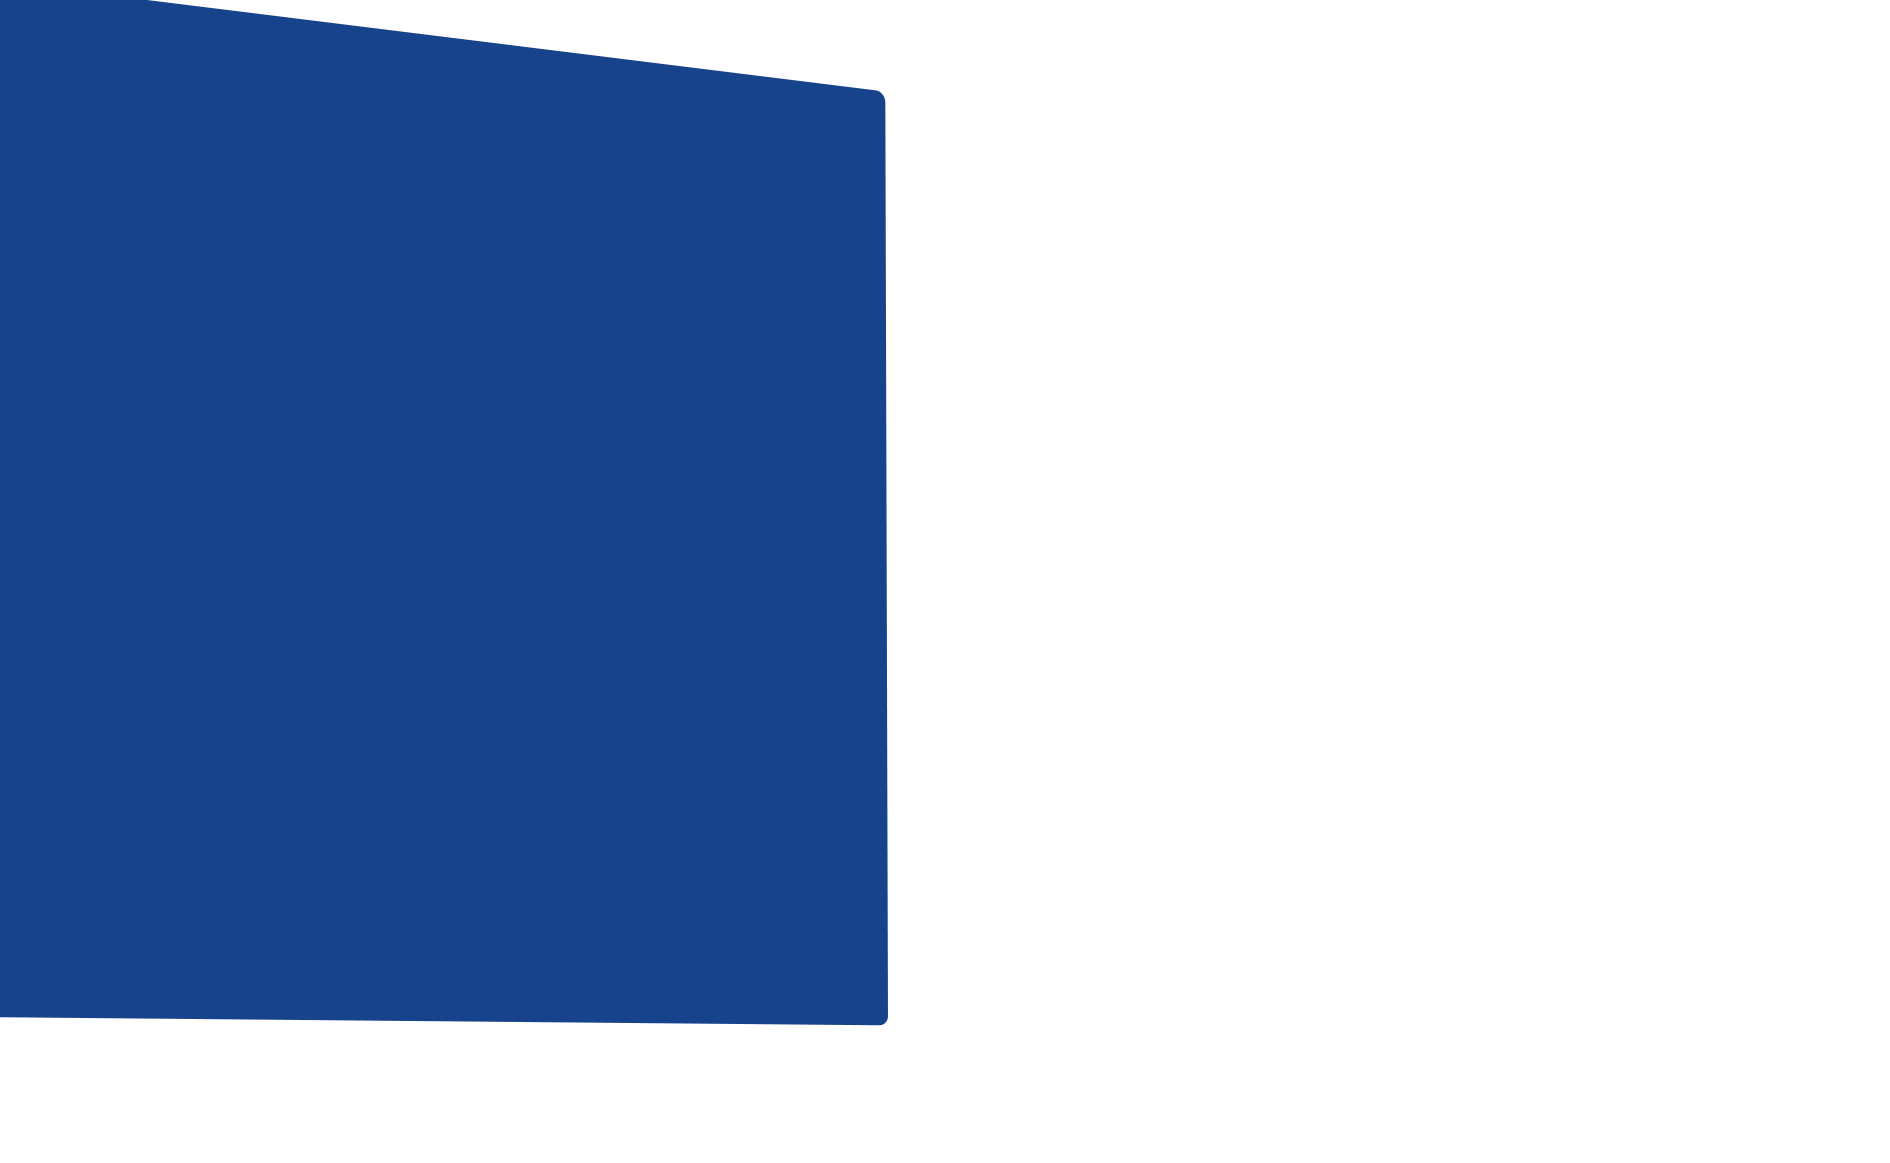
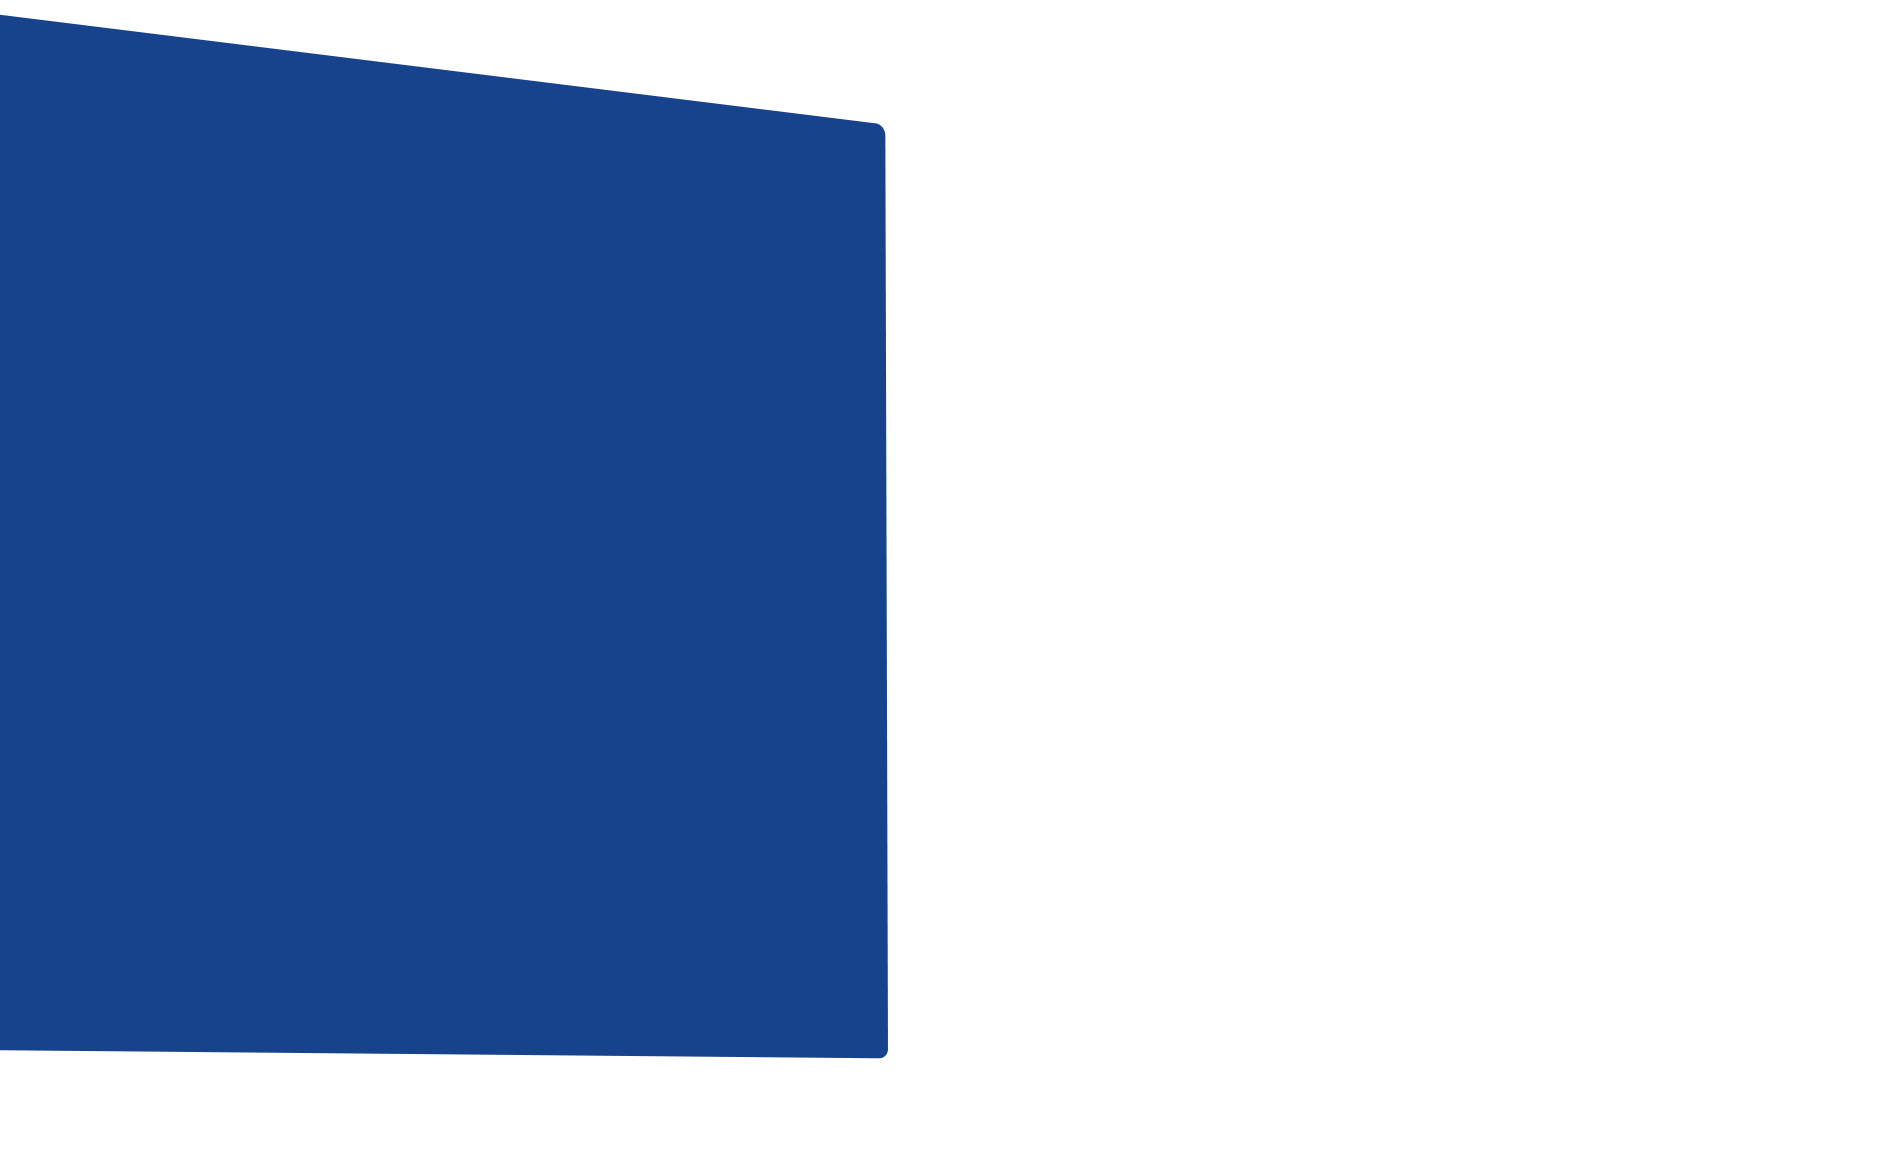
UI changes

Changed region(s): [[0.0, 0.8667, 0.4683, 0.9286], [0.0, 0.0, 0.4683, 0.1238]]

diff --git a/src/components/LandingImage.jsx b/src/components/LandingImage.jsx
@@ -59,7 +59,7 @@ const FixedImage = () => {
         position: "relative",
         width: "100%",
       }}
-      className="w-full h-[70vh] md:h-[80vh] bg-cover bg-no-repeat flex items-center justify-center p-4"
+      className="w-full h-[60vh] md:h-[80vh] bg-cover bg-no-repeat flex items-center justify-center p-4"
     >
       <animated.div
         style={{
@@ -105,7 +105,6 @@ const FixedImage = () => {
           style={{
             padding: "20px",
             backgroundSize: `300% 300%`,
-            border: "2px solid white",
             display: "flex",
             flexDirection: "column",
             alignItems: "center",
@@ -117,8 +116,9 @@ const FixedImage = () => {
             position: "relative", // Ensure all elements are stacked on top of each other
             zIndex: 1, // Ensure content is above the background images
           }}
+          className="border-none md:border-[1px] border-background"
         >
-          <h1 className="font-extrabold text-accent text-3xl text-center">
+          <h1 className="font-extrabold text-accent text-xl md:text-3xl text-center">
             We Supply{" "}
             <span className="text-secondary font-serif">Quality </span>and{" "}
             <span className=" font-serif">Reliable </span>
@@ -128,9 +128,9 @@ const FixedImage = () => {
             suppliers and fabricators of all aluminum systems.
           </p>
           <div className="flex items-center justify-center gap-4">
-            <div className="p-[6px] text-background border-[1px] hover:bg-primary hover:text-background  transition border-background rounded-md text-[.8rem]">
+            {/* <div className="p-[6px] text-background border-[1px] hover:bg-primary hover:text-background  transition border-background rounded-md text-[.8rem]">
               See what we do
-            </div>
+            </div> */}
             <div className="p-[6px] text-background hover:bg-primary hover:text-background  transition border-[1px] border-background rounded-md text-[.8rem]">
               View our portfolio here
             </div>

diff --git a/src/components/ContactForm.jsx b/src/components/ContactForm.jsx
@@ -3,12 +3,12 @@ import { motion } from "framer-motion";
 export default function Contact() {
   return (
     <div className="  my-40">
-      <h2 className="text-2xl font-bold text-center text-secondary mb-4">
+      <h2 className="text-xl font-bold text-center text-secondary mb-4">
         Reach out to us for any queries
       </h2>
       <div className="flex gap-4 flex-col md:flex-row justify-center items-center bg-gray-100 p-4 w-full ">
         <motion.div
-          className="bg-primary text-background   p-8 rounded-lg shadow-lg w-full md:w-1/2 lg:w-1/3 m-2"
+          className="bg-primary text-background   p-8  shadow-lg w-full md:w-1/2 lg:w-1/3 m-2"
           initial={{ x: "100vw" }}
           animate={{ x: 0 }}
           transition={{ type: "spring", stiffness: 50, delay: 0.3 }}
@@ -31,12 +31,12 @@ export default function Contact() {
         </button> */}
         </motion.div>
         <motion.div
-          className=" p-8 rounded-lg shadow-lg w-full md:w-1/2 lg:w-1/2 m-2"
+          className=" p-8  shadow-lg shadow-primary w-full md:w-1/2 lg:w-1/2 m-2"
           initial={{ x: "-100vw" }}
           animate={{ x: 0 }}
           transition={{ type: "spring", stiffness: 50, delay: 0.4 }}
         >
-          <h2 className="text-2xl font-bold mb-4 text-[red]">Contact Us</h2>
+          <h2 className="text-2xl font-bold mb-4">Contact Us</h2>
           <form className="flex flex-col justify-between min-h-full">
             <div className="mb-4">
               <label className="block text-gray-700">Enter your Name</label>

diff --git a/src/components/Testimonial.jsx b/src/components/Testimonial.jsx
@@ -26,7 +26,7 @@ const NextArrow = (props) => {
   const { onClick } = props;
   return (
     <div
-      className="absolute right-4 md:right-0 top-1/2 transform -translate-y-1/2 z-10 p-2 rounded-full bg-secondary"
+      className="absolute right-[-20px] md:right-0 top-1/2 transform -translate-y-1/2 z-10 p-2 rounded-full bg-secondary"
       onClick={onClick}
     >
       <FaArrowRight className="text-background text-2xl cursor-pointer size-5" />
@@ -42,7 +42,7 @@ const PrevArrow = (props) => {
   const { onClick } = props;
   return (
     <div
-      className="absolute bg-secondary left-4 md:left-0 top-1/2 transform -translate-y-1/2 z-10 p-2 rounded-full "
+      className="absolute bg-secondary left-[-20px] md:left-0 top-1/2 transform -translate-y-1/2 z-10 p-2 rounded-full "
       onClick={onClick}
     >
       <FaArrowLeft className="text-background text-2xl  cursor-pointer size-5" />

diff --git a/src/components/ProjectsSwipe.jsx b/src/components/ProjectsSwipe.jsx
@@ -25,11 +25,11 @@ function ProjectsSlider() {
             1280: { slidesPerView: 3 },
           }}
           navigation={{
-            nextEl: '.swiper-button-next',
-            prevEl: '.swiper-button-prev',
+            nextEl: ".swiper-button-next",
+            prevEl: ".swiper-button-prev",
           }}
           modules={[Navigation]}
-          className="mySwiper backdrop-blur-3xl mb-20 md:mb-0"
+          className="mySwiper backdrop-blur-3xl md:mb-0"
         >
           {projects.map((project, index) => (
             <SwiperSlide key={index}>

diff --git a/src/components/QuestService.jsx b/src/components/QuestService.jsx
@@ -62,7 +62,7 @@ const ProductSlider = () => {
 
   return (
     <div className="container mx-auto p-8">
-      <h2 className="text-2xl font-bold text-secondary mb-4">
+      <h2 className="text-xl font-bold text-secondary mb-4">
         WHICH PRODUCT ARE YOU LOOKING FOR?
       </h2>
       <p className="text-xl text-text mb-8">Our products by categories</p>
